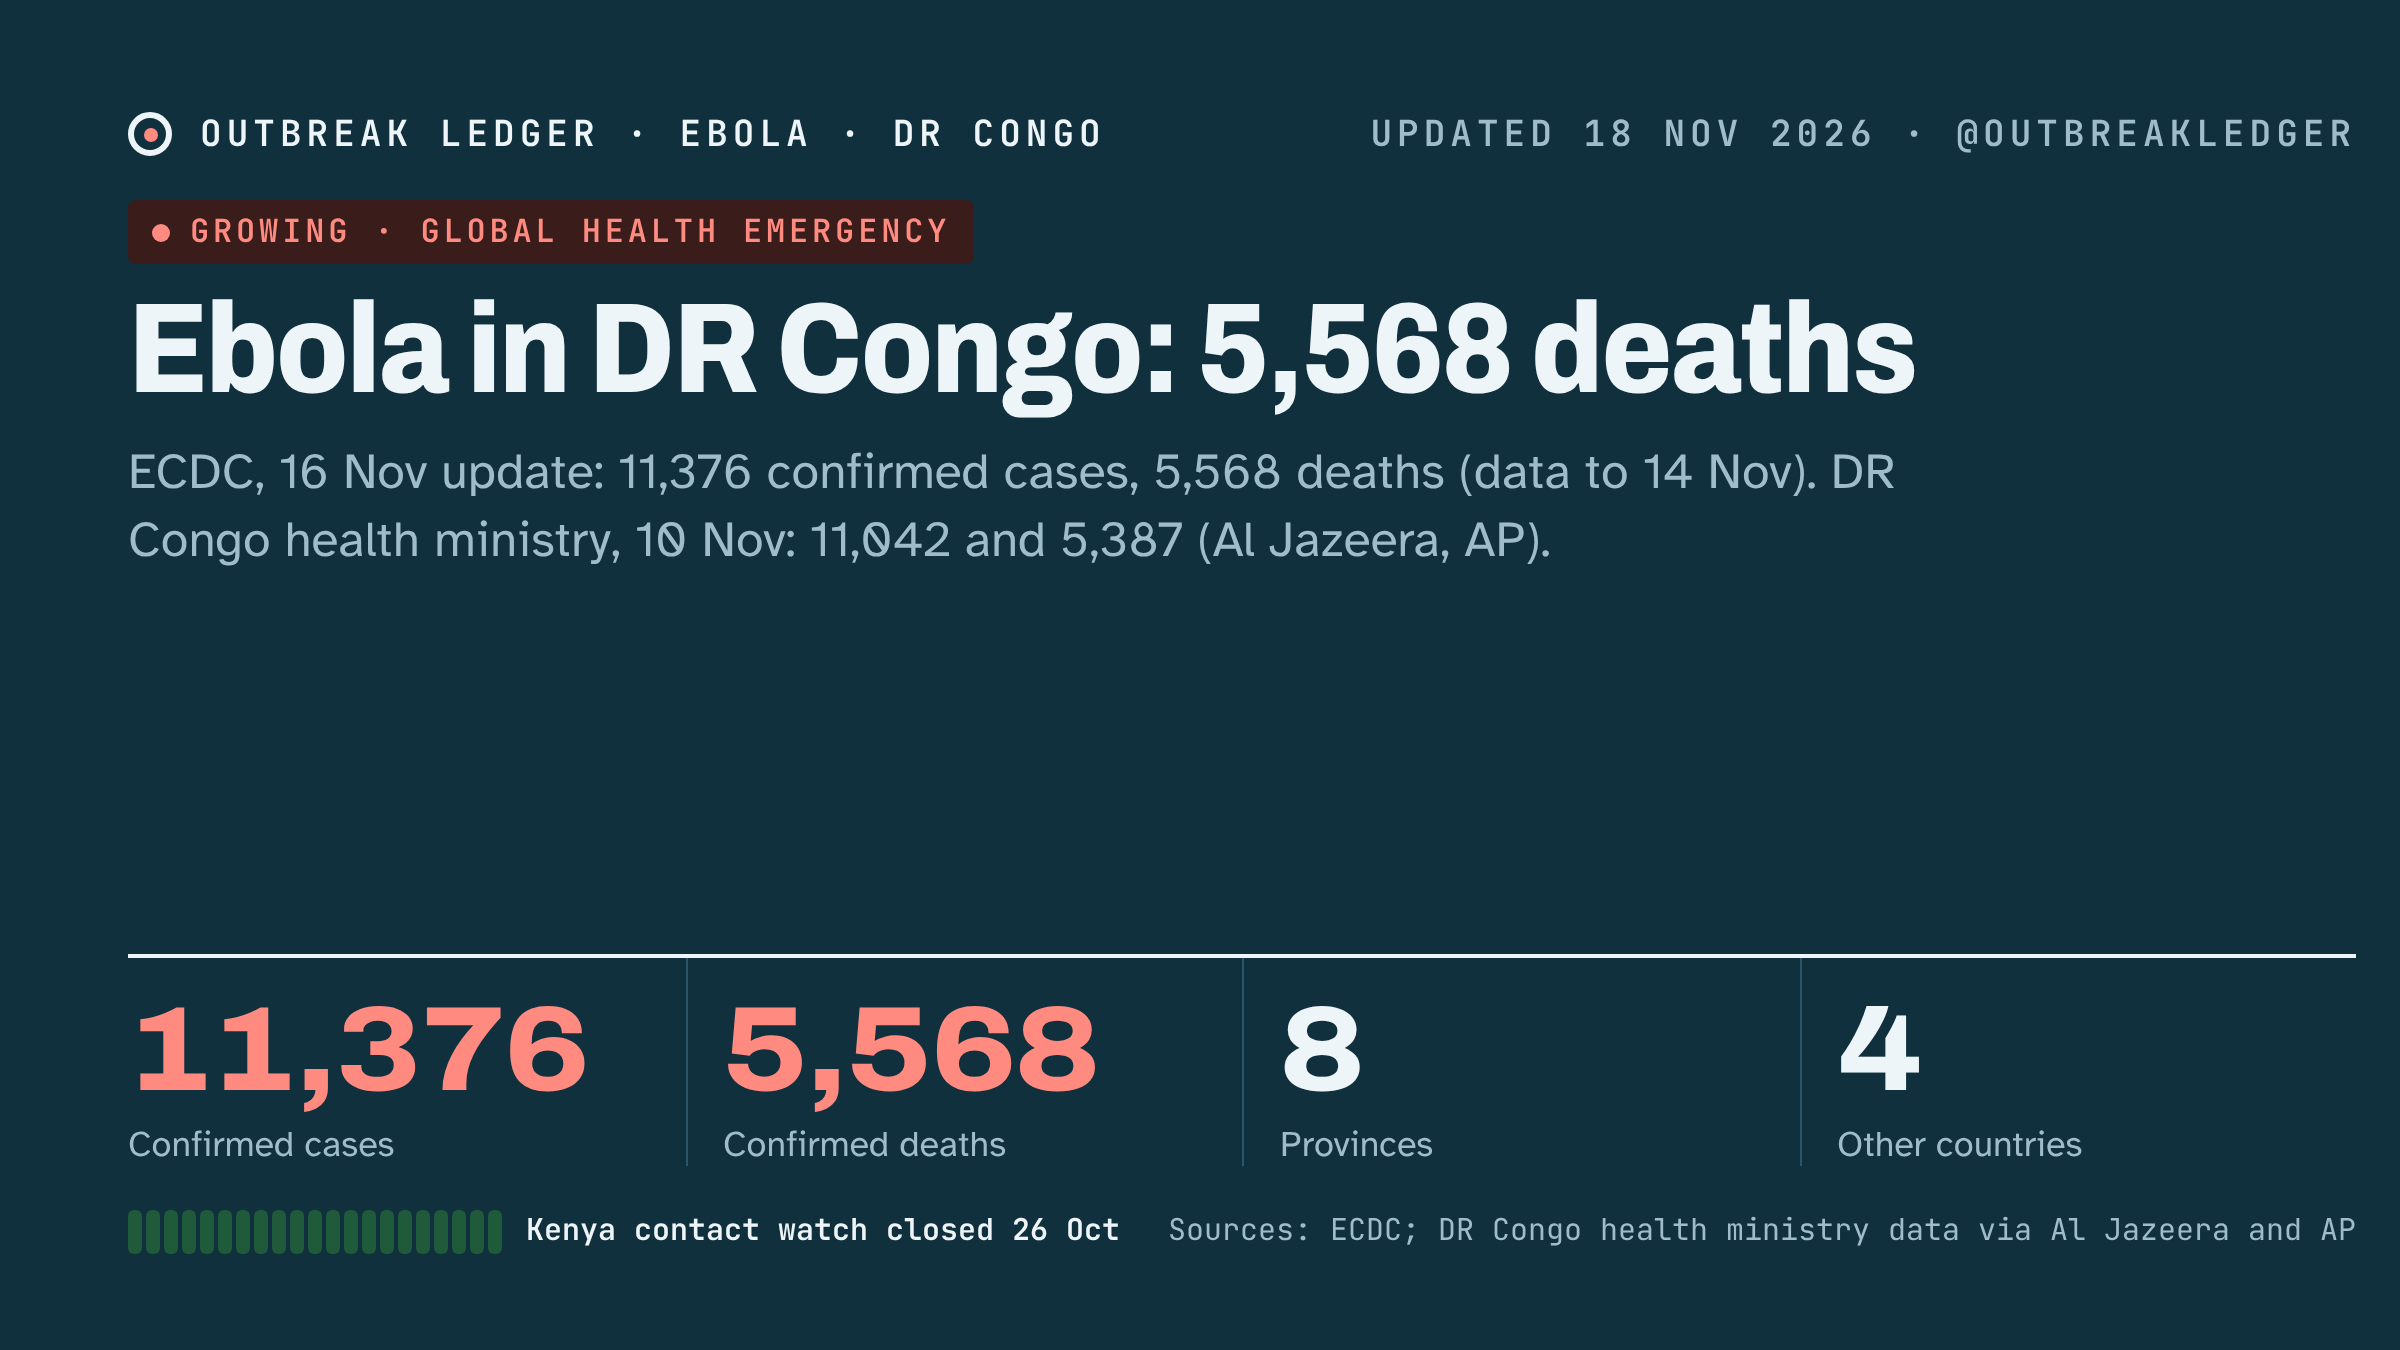
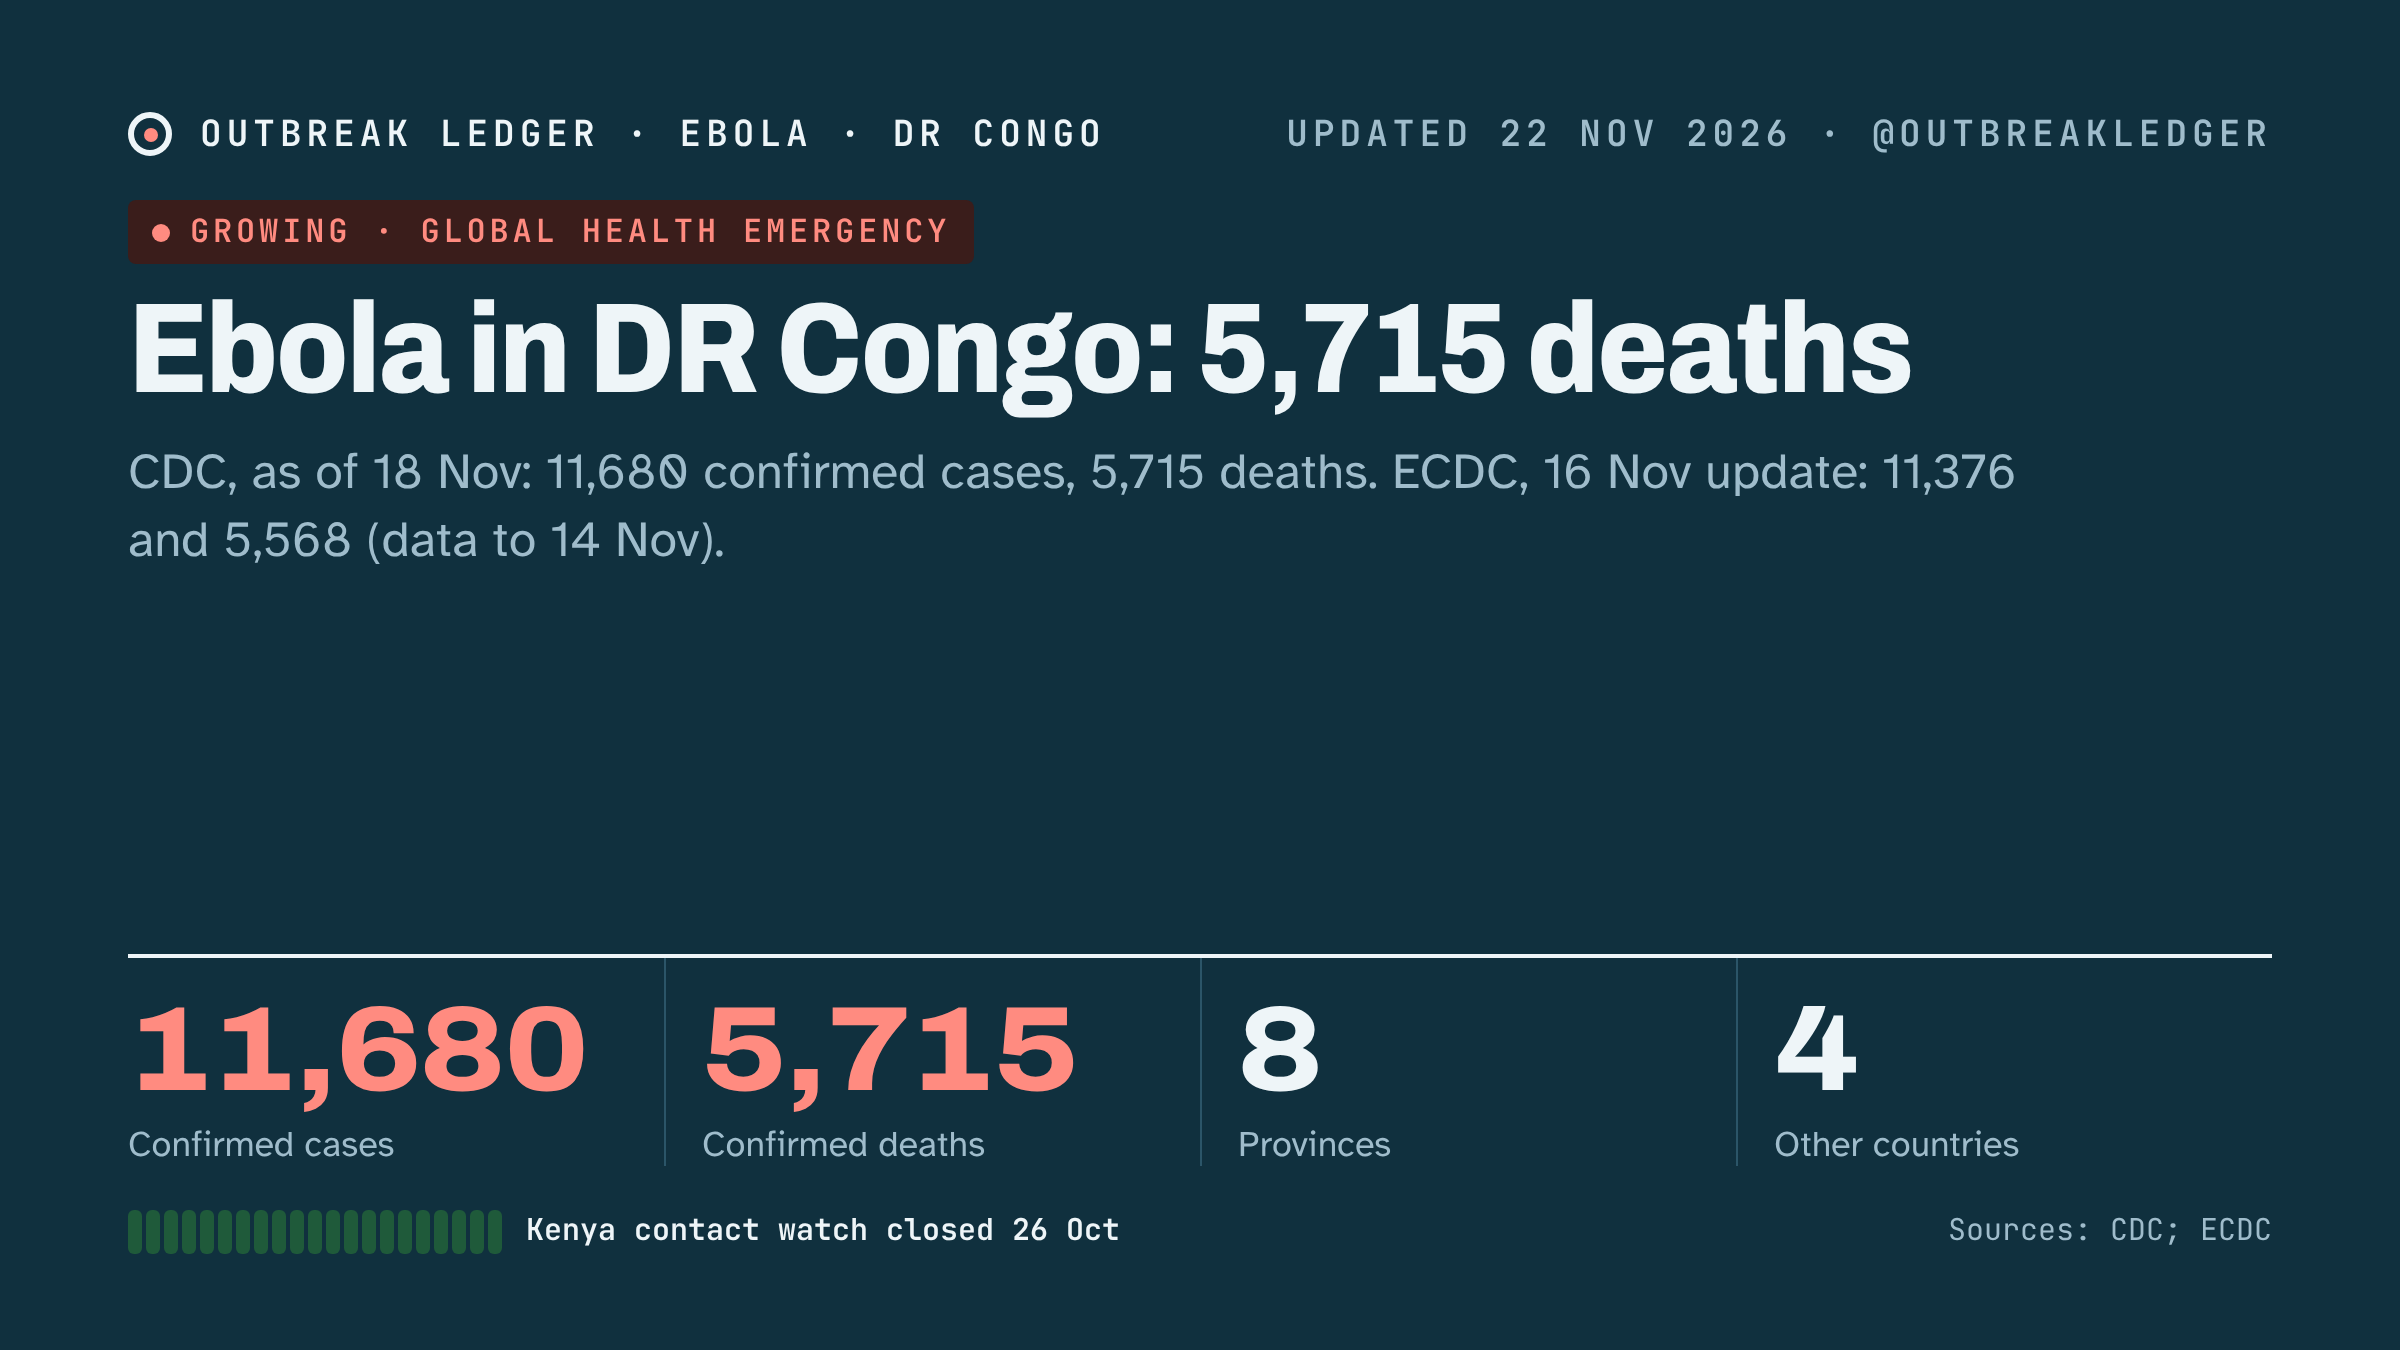
Trackers: Ebola CDC 11,680 cases / 5,715 deaths (18 Nov); others checked, no change
Claude-Session: https://claude.ai/code/session_01DjK934MGj4uKY77RiACNyU

diff --git a/site/ebola/share/latest-post.md b/site/ebola/share/latest-post.md
@@ -1,5 +1,5 @@
-ECDC's 16 Nov update counts 11,376 confirmed Ebola cases and 5,568 deaths in DR Congo (data to 14 Nov), up from 11,197 and 5,471 in its 12 Nov update. CDC's US entry suspension now runs through 10 Dec.
+CDC's situation summary lists 11,680 confirmed Ebola cases and 5,715 deaths in DR Congo as of 18 Nov. ECDC's 16 Nov update counted 11,376 and 5,568 (data to 14 Nov). Kenya's 42-day countdown runs from 11 Nov.
 
 https://nhlebe1.github.io/ai-scheduler-platform/ebola/
 
-Sources: ECDC update of 16 Nov (ecdc.europa.eu/en/public-health-events/2026-eip-00026/2026-11-16); Erickson Immigration Group (https://eiglaw.com/cdc-extends-ebola-related-travel-restrictions-through-december-10-2026/); VisaVerge (https://www.visaverge.com/legal/cdc-keeps-entry-suspension-for-covered-aliens-over-bundibugyo-virus-risk/).
+Sources: CDC Ebola situation summary (https://www.cdc.gov/ebola/situation-summary/index.html); ECDC update of 16 Nov (https://www.ecdc.europa.eu/en/public-health-events/2026-eip-00026/2026-11-16).
